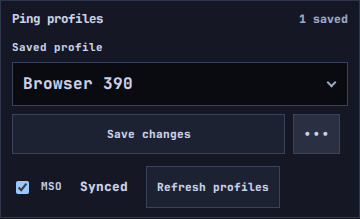
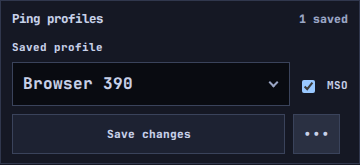
Fix shared Save contrast and compact Ping MSO controls (#290)

diff --git a/twn_toolkit/templates/tools/ping.html b/twn_toolkit/templates/tools/ping.html
@@ -49,19 +49,26 @@
   >
     {% call saved_profile_manager("Ping profiles", "Reuse a saved target and timing set.", profiles|length, "ping-profile-manager", compact=true) %}
       <div class="compact-profile-controls">
-        <label class="compact-profile-select">Saved profile
-          <select id="ping-profile" data-saved-profile-select>
-            <option value="">New / unsaved profile</option>
-            {% for profile in profiles %}
-              <option value="{{ profile.name }}" data-mso='{{ profile.mso|tojson }}' data-interval="{{ profile.interval }}" data-timeout="{{ profile.get('timeout', 1) }}" data-targets='{{ profile.targets|tojson }}' data-health-thresholds='{{ profile.get("health_thresholds", ping_health_defaults)|tojson }}'>{{ profile.name }}</option>
-            {% endfor %}
-          </select>
-        </label>
+        <div class="compact-profile-target">
+          <label class="compact-profile-select">Saved profile
+            <select id="ping-profile" data-saved-profile-select>
+              <option value="">New / unsaved profile</option>
+              {% for profile in profiles %}
+                <option value="{{ profile.name }}" data-mso='{{ profile.mso|tojson }}' data-interval="{{ profile.interval }}" data-timeout="{{ profile.get('timeout', 1) }}" data-targets='{{ profile.targets|tojson }}' data-health-thresholds='{{ profile.get("health_thresholds", ping_health_defaults)|tojson }}'>{{ profile.name }}</option>
+              {% endfor %}
+            </select>
+          </label>
+          <div class="compact-profile-mso" id="ping-mso-controls">
+            <label class="check" title="{{ 'Sync this saved profile across the Mainframe fleet' if mso_available else 'Connect to a Mainframe or enable Mainframe mode to share profiles' }}"><input aria-label="MSO: Sync with Mainframe" type="checkbox" id="ping-profile-mso" {% if not mso_available %}disabled{% endif %}> MSO</label>
+            <span class="pill" id="ping-mso-state" role="status" hidden>Local</span>
+          </div>
+        </div>
         <button class="secondary compact-profile-primary" type="button" data-saved-profile-primary>Save current…</button>
-        <details class="compact-profile-more" data-saved-profile-more>
+        <details class="compact-profile-more" data-saved-profile-more data-saved-profile-always-more>
           <summary aria-label="More Ping profile actions" title="More profile actions">•••</summary>
           <div>
-            <a class="button-link secondary" href="{{ url_for('tools.mso_conflicts') }}">MSO conflicts</a>
+            <button type="button" class="secondary" id="ping-profile-refresh">Refresh profiles</button>
+            <a class="button-link secondary" id="ping-mso-conflicts-link" href="{{ url_for('tools.mso_conflicts') }}">MSO conflicts</a>
             <button class="secondary" type="button" data-saved-profile-rename>Rename…</button>
             <button class="secondary duplicate-action" type="button" data-saved-profile-duplicate data-profile-duplicate="{{ url_for('tools.duplicate_ping_profile') }}" data-profile-select="#ping-profile" disabled>Duplicate</button>
             <button class="danger" id="ping-profile-delete" data-saved-profile-delete type="button" disabled>Delete</button>
@@ -72,12 +79,6 @@
           <button class="profile-save-action" id="ping-profile-save" data-saved-profile-save type="button">Save profile</button>
           <button class="secondary" type="button" data-saved-profile-cancel>Cancel</button>
         </div>
-      </div>
-      <div class="button-row" id="ping-mso-controls">
-        <label class="check" title="{{ 'Sync this saved profile across the Mainframe fleet' if mso_available else 'Connect to a Mainframe or enable Mainframe mode to share profiles' }}"><input aria-label="MSO: Sync with Mainframe" type="checkbox" id="ping-profile-mso" {% if not mso_available %}disabled{% endif %}> MSO</label>
-        <span class="pill" id="ping-mso-state" role="status">Local</span>
-        <a class="button-link secondary" id="ping-mso-conflicts-link" href="{{ url_for('tools.mso_conflicts') }}" hidden>Review conflicts</a>
-        <button type="button" class="secondary" id="ping-profile-refresh">Refresh profiles</button>
       </div>
     {% endcall %}
     <label>

diff --git a/twn_toolkit/templates/help.html b/twn_toolkit/templates/help.html
@@ -161,7 +161,7 @@
 <section class="home-section help-section" id="network-tools">
   <details class="help-topic"><summary>Mainframe Synced Objects · Ping pilot</summary><div class="help-topic-body">
     <p>Saved Ping profiles remain local unless you enable <strong>MSO · Sync with Mainframe</strong> and save. Changes can originate anywhere and sync across the enrolled fleet without starting Ping. Pending means queued locally; Synced means accepted by the Mainframe, not delivered to every offline Agent.</p>
-    <p>Use <strong>Refresh profiles</strong> to discover incoming profiles or load changed values. Background status checks preserve unsaved editor contents. <strong>Review conflicts</strong> opens the shared MSO conflicts page, where you compare saved local and fleet versions. Resolution controls are centralized; duplicate first if you want an independent copy.</p>
+    <p>The MSO checkbox sits beside the profile dropdown; its tooltip shows Local or Synced, with visible status text when attention is needed. Use <strong>••• → Refresh profiles</strong> to discover incoming profiles or load changed values already saved on this instance. This reloads the editor after confirmation; network sync remains automatic. The menu is available even with no selected profile. Its <strong>MSO conflicts</strong> action becomes <strong>Review conflicts</strong> when the selected profile has a conflict. Compare saved local and fleet versions on that central page; duplicate first if you want an independent copy.</p>
     <p>Disable MSO anywhere to keep a fresh local copy there and remove shared replicas as peers sync. Shared Delete removes all copies. Leaving a Mainframe preserves independent local copies; revocation blocks further sync but does not wipe stored data. Only Ping profiles participate in this pilot. Both peers need a compatible build and enrollment worker.</p>
     <p>Ping migrates once to <code>mso.sqlite3</code>; the retained legacy JSON is no longer active. Portable imports create local objects and require active/pending/conflicted MSOs to be withdrawn first. Recovery points preserve the full store; restoring older Mainframe history can require explicit reconciliation.</p>
   </div></details>

diff --git a/twn_toolkit/static/ping-tool.js b/twn_toolkit/static/ping-tool.js
@@ -347,9 +347,12 @@
 
   function showMso(info, error = "") {
     if (!msoState) return;
-    msoState.textContent = error ? `${info?.state || "Local"} · Sync unavailable` : info?.state || "Local";
-    msoState.title = error;
-    if (msoConflictsLink) msoConflictsLink.hidden = !info?.conflict;
+    const state = info?.state || "Local";
+    msoState.textContent = error ? "Unavailable" : state;
+    msoState.hidden = !error && (state === "Local" || state === "Synced");
+    msoState.title = error || state;
+    if (msoToggle && !msoToggle.disabled) msoToggle.closest("label").title = `MSO · ${state}${error ? ` · ${error}` : ""}`;
+    if (msoConflictsLink) msoConflictsLink.textContent = info?.conflict ? "Review conflicts" : "MSO conflicts";
   }
 
   async function readMso(id = "") {
@@ -377,6 +380,7 @@
     profileSelect.dispatchEvent(new Event("change"));
   }
   profileRefresh?.addEventListener("click", async () => {
+    profileRefresh.closest("details").open = false;
     profileRefresh.disabled = true;
     try { await refreshProfiles(); }
     catch (error) { status.textContent = error.message; }
@@ -390,8 +394,11 @@
       const data = await readMso(selected.id);
       if (selected !== loadedMso) return;
       if (!data.profile || data.profile.mso.version !== selected.version) {
-        msoState.textContent = data.profile ? "Profile changed · Refresh to load" : "Shared profile removed · Refresh";
-        if (msoConflictsLink) msoConflictsLink.hidden = !data.profile?.mso.conflict;
+        msoState.textContent = data.profile?.mso.conflict ? "Conflict" : data.profile ? "Changed" : "Removed";
+        msoState.hidden = false;
+        msoState.title = "Open the profile actions menu and Refresh profiles to load saved changes. Unsaved edits are preserved until you confirm.";
+        if (msoToggle && !msoToggle.disabled) msoToggle.closest("label").title = `${msoState.textContent} · ${msoState.title}`;
+        if (msoConflictsLink) msoConflictsLink.textContent = data.profile?.mso.conflict ? "Review conflicts" : "MSO conflicts";
       } else {
         // Receipt/status changes never replace the editor or its saved base version.
         showMso(data.profile.mso, data.sync.error);

diff --git a/twn_toolkit/static/styles.css b/twn_toolkit/static/styles.css
@@ -19576,12 +19576,14 @@ button.danger:hover {
 
 .saved-profile-manager .profile-save-action {
   border-color: color-mix(in srgb, var(--line-strong), var(--depth-primary) 34%);
-  color: var(--depth-primary);
 }
 
 .saved-profile-manager button:disabled {
+  background: var(--surface-subtle);
+  border-color: var(--line);
+  color: var(--muted);
   cursor: not-allowed;
-  opacity: 0.42;
+  opacity: 1;
 }
 
 .saved-profile-manager.compact-profile-manager {
@@ -19646,6 +19648,27 @@ button.danger:hover {
 
 .compact-profile-select {
   min-width: 0;
+}
+
+.compact-profile-target {
+  align-items: end;
+  display: grid;
+  gap: 8px;
+  grid-template-columns: minmax(0, 1fr) auto;
+  min-width: 0;
+}
+
+.compact-profile-mso {
+  align-items: center;
+  display: flex;
+  gap: 6px;
+  min-height: var(--ui-control-height);
+}
+
+.compact-profile-mso .check {
+  margin: 0;
+  min-height: var(--ui-control-height);
+  white-space: nowrap;
 }
 
 .compact-profile-select select {
@@ -19971,7 +19994,8 @@ button.danger:hover {
 }
 
 @container saved-profile-manager (max-width: 360px) {
-  .compact-profile-select {
+  .compact-profile-controls > .compact-profile-select,
+  .compact-profile-target {
     grid-column: 1 / -1;
   }
 }

diff --git a/twn_toolkit/static/saved-profile-manager.js b/twn_toolkit/static/saved-profile-manager.js
@@ -45,7 +45,8 @@
         count.textContent = `${savedCount} saved`;
       }
       if (primary) primary.textContent = hasSavedProfile ? "Save changes" : "Save current…";
-      if (more) more.hidden = !hasSavedProfile;
+      if (more) more.hidden = !hasSavedProfile && !more.hasAttribute("data-saved-profile-always-more");
+      if (rename) rename.disabled = !hasSavedProfile;
     };
 
     const closeNaming = ({restoreName = true} = {}) => {

diff --git a/twn_toolkit/static/appearance.css b/twn_toolkit/static/appearance.css
@@ -179,7 +179,7 @@
   --warn: #fabd2f;
   --bad: #ff806f;
   --action-primary: #496b61;
-  --action-primary-hover: #587f74;
+  --action-primary-hover: #53796e;
   --action-secondary: #504945;
   --action-secondary-hover: #665c54;
   --action-danger: #9d3e32;

diff --git a/tests/test_ui_components.py b/tests/test_ui_components.py
@@ -795,6 +795,22 @@ class UIComponentTests(unittest.TestCase):
         self.assertIn("background: var(--action-primary-hover);", stylesheet)
         self.assertIn("background: var(--action-danger);", stylesheet)
 
+    def test_primary_action_text_contrast_across_palettes(self) -> None:
+        stylesheet = (TEMPLATE_ROOT.parent / "static" / "appearance.css").read_text(encoding="utf-8")
+
+        def luminance(value):
+            channels = [int(value[index:index + 2], 16) / 255 for index in (1, 3, 5)]
+            linear = [channel / 12.92 if channel <= 0.04045 else ((channel + 0.055) / 1.055) ** 2.4 for channel in channels]
+            return sum(channel * weight for channel, weight in zip(linear, (0.2126, 0.7152, 0.0722)))
+
+        palettes = re.findall(r'\[data-palette="([^"]+)"\] \{(.*?)\n\}', stylesheet, re.S)
+        self.assertTrue(palettes)
+        for palette, declarations in palettes:
+            for token in ("action-primary", "action-primary-hover"):
+                with self.subTest(palette=palette, state=token):
+                    color = re.search(rf"--{token}: (#[0-9a-fA-F]{{6}});", declarations).group(1)
+                    self.assertGreaterEqual(1.05 / (luminance(color) + 0.05), 4.5)
+
     def test_dashboard_metric_values_stay_within_their_cards(self) -> None:
         stylesheet = (TEMPLATE_ROOT.parent / "static" / "styles.css").read_text(
             encoding="utf-8"

diff --git a/twn_toolkit/version.py b/twn_toolkit/version.py
@@ -1,6 +1,19 @@
-APP_VERSION = "0.25.2"
+APP_VERSION = "0.25.3"
 
 RELEASE_NOTES = (
+    {
+        "version": "0.25.3",
+        "date": "2026-09-10",
+        "title": "Readable Save actions and compact MSO controls",
+        "summary": "Improve shared Save contrast and keep Ping profile sharing unobtrusive.",
+        "groups": (
+            {"title": "Interface", "items": (
+                "Use readable shared Save colors across profile managers, including light themes and disabled controls.",
+                "Place Ping's MSO checkbox beside the profile dropdown, showing status text only when attention is needed.",
+                "Move Refresh profiles and conflict review into the profile actions menu, available even before selecting a profile.",
+            )},
+        ),
+    },
     {
         "version": "0.25.2",
         "date": "2026-09-10",

diff --git a/tests/test_version.py b/tests/test_version.py
@@ -10,9 +10,9 @@ class VersionMetadataTests(unittest.TestCase):
     def test_current_release_note_matches_application_version(self) -> None:
         self.assertTrue(RELEASE_NOTES)
         self.assertEqual(RELEASE_NOTES[0]["version"], APP_VERSION)
-        self.assertEqual(APP_VERSION, "0.25.2")
+        self.assertEqual(APP_VERSION, "0.25.3")
         self.assertTrue(RELEASE_NOTES[0]["title"].strip())
-        self.assertEqual(RELEASE_NOTES[1]["version"], "0.25.1")
+        self.assertEqual(RELEASE_NOTES[1]["version"], "0.25.2")
 
     def test_release_versions_are_unique_and_well_formed(self) -> None:
         versions = [release["version"] for release in RELEASE_NOTES]

diff --git a/tests/test_mso.py b/tests/test_mso.py
@@ -315,7 +315,8 @@ def test_web_toggle_stale_forms_and_central_conflict_resolution(fleet):
     main.save(profile(host="192.0.2.3"))
     sync(main, a)
     page = client.get("/tools/ping")
-    assert b'Review conflicts' in page.data
+    assert b'MSO conflicts' in page.data
+    assert b'data-saved-profile-always-more' in page.data
     assert b'Use fleet version' not in page.data
     conflict_page = client.get("/tools/mso/conflicts")
     assert b'192.0.2.2' in conflict_page.data and b'192.0.2.3' in conflict_page.data

diff --git a/tests/test_home.py b/tests/test_home.py
@@ -107,7 +107,7 @@ class HomePageTests(unittest.TestCase):
         self.assertIn(b"DNS", response.data)
         self.assertIn(b"Speed tests", response.data)
         self.assertIn(b"Syslog", response.data)
-        self.assertIn(b"v0.25.2", response.data)
+        self.assertIn(b"v0.25.3", response.data)
         self.assertIn(b'href="/help"', response.data)
         self.assertIn(b"Help &amp; release notes", response.data)
         self.assertIn(

diff --git a/docs/beta-releases.md b/docs/beta-releases.md
@@ -1,0 +1,47 @@
+# Beta release versioning
+
+Choose the intended GA version before assigning versions to beta installations.
+Every beta must have a supported upgrade path to that GA. Installing an ordinary
+numeric development version consumes its place in the upgrade ordering, even
+when no public release or tag exists. The normal updater requires a strictly
+newer version; a GitHub prerelease label does not change that comparison.
+
+## Current updater limitations
+
+The bundle parser currently accepts only three numeric components (`X.Y.Z`).
+Versions such as `0.26.0-beta.1` are **not supported yet**. Normal release discovery
+also excludes GitHub drafts and prereleases. Verified local bundles can deliver
+numeric development builds through the normal updater and recovery workflow.
+
+Until prerelease support is implemented, keep numeric pilot versions below the
+intended GA version. Do not install the intended GA number as a beta: a later
+bundle with that same number will not qualify as a normal upgrade. If a pilot
+has already reached or exceeded the intended GA number, choose a higher GA
+version or restore a suitable recovery point first. Do not bypass version checks
+or relabel an installed build to conceal a downgrade.
+
+Recovery restores code and saved instance data together. Preserve newer data
+before rolling back; for shared objects, consider changes already synchronized
+to other peers. A recovery point is not an automatic fleet-wide rollback.
+
+## Future prerelease support
+
+Before deploying suffix-based beta versions, implement and verify the complete
+path through version parsing, comparison, bundle names and manifests, installation,
+release discovery, tag CI, and release publication. Define explicit beta opt-in
+without offering prereleases to users on the stable channel.
+
+Regression coverage must prove ordering such as
+`0.26.0-beta.2 < 0.26.0-beta.10 < 0.26.0-rc.1 < 0.26.0`, successful beta-to-beta
+and beta-to-GA upgrades, rejection of equal versions and downgrades, and recovery
+with matching code and data. Include a verified upgrade from an existing numeric
+installation; updating only the candidate parser does not make an older updater
+understand prerelease bundle versions.
+
+## Current MSO planning
+
+The MSO pilot has used numeric development versions through **v0.25.3**.
+**v0.26.0 is the likely next GA target**, subject to the release owner's final
+scope decision. It sorts above those pilot versions, so they can upgrade normally
+once a verified GA bundle is available. This planning note does not change the
+installed version or authorize publication.
